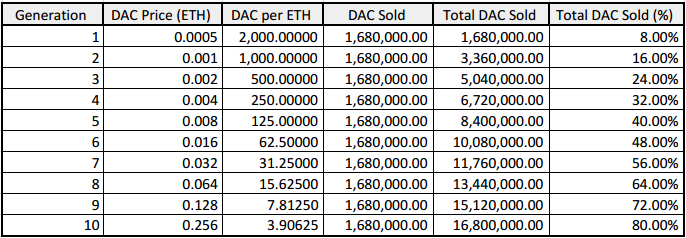
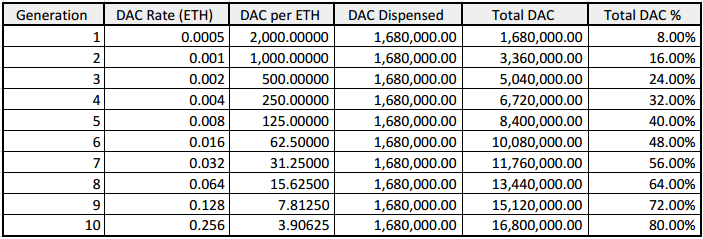
Added vending machine contract image 2

diff --git a/README.md b/README.md
@@ -49,9 +49,9 @@ The total number of tokens created will be a fixed 21 million tokens.  The token
 20% of the DAC Tokens will be allocated to the creators and maintainers of the platform with the rest being sold through the Vending Machine.
 
 ### Vending Machine Contract
-The Vending Machine Contract will be used to disperse DAC Tokens to anyone who would like to purchase them to use on the platform.  It is set up to sell 80% of all DAC Tokens.  To purchase tokens any user can send ETH to the specified function in the contract and automatically recieve a calculated amount of DAC in return.  DAC tokens will be transferred to the originating address of the purchase, so no ETH should be sent directly from exchanges, but instead it should be sent from a wallet that is owned by the user.
+The Vending Machine Contract will be used to dispense DAC Tokens to anyone who would like to aquire them to use on the platform.  It is set up to dispense 80% of all DAC Tokens.  To aquire tokens any user can send ETH to the specified function in the contract and automatically recieve a calculated amount of DAC in return.  DAC tokens will be transferred to the originating address of the transaction, so no ETH should be sent directly from exchanges, but instead it should be sent from a wallet that is owned by the user.
 
-The Vending Machine is set up to sell the tokens in a series of 10 Generations.  Each generation will have a price that is double the preceding generation, with the initial price starting at 2,000 DAC Tokens per ETH.  Each generation will 1.68 million DAC Tokens, totaling 16.8 million DAC Tokens which is 80% of all the available supply of 21 million tokens.
+The Vending Machine is set up to dispense the tokens in a series of 10 Generations.  Each generation will have a price that is double the preceding generation, with the initial price starting at 2,000 DAC Tokens per ETH.  Each generation will dispense 1.68 million DAC Tokens, totaling 16.8 million DAC Tokens which is 80% of all the available supply of 21 million tokens.
 
 <p align="center">
   <img src="https://github.com/DACapital/contracts/blob/master/doc/vending_machine.png?raw=true" alt="DA Capital Contracts"/>
